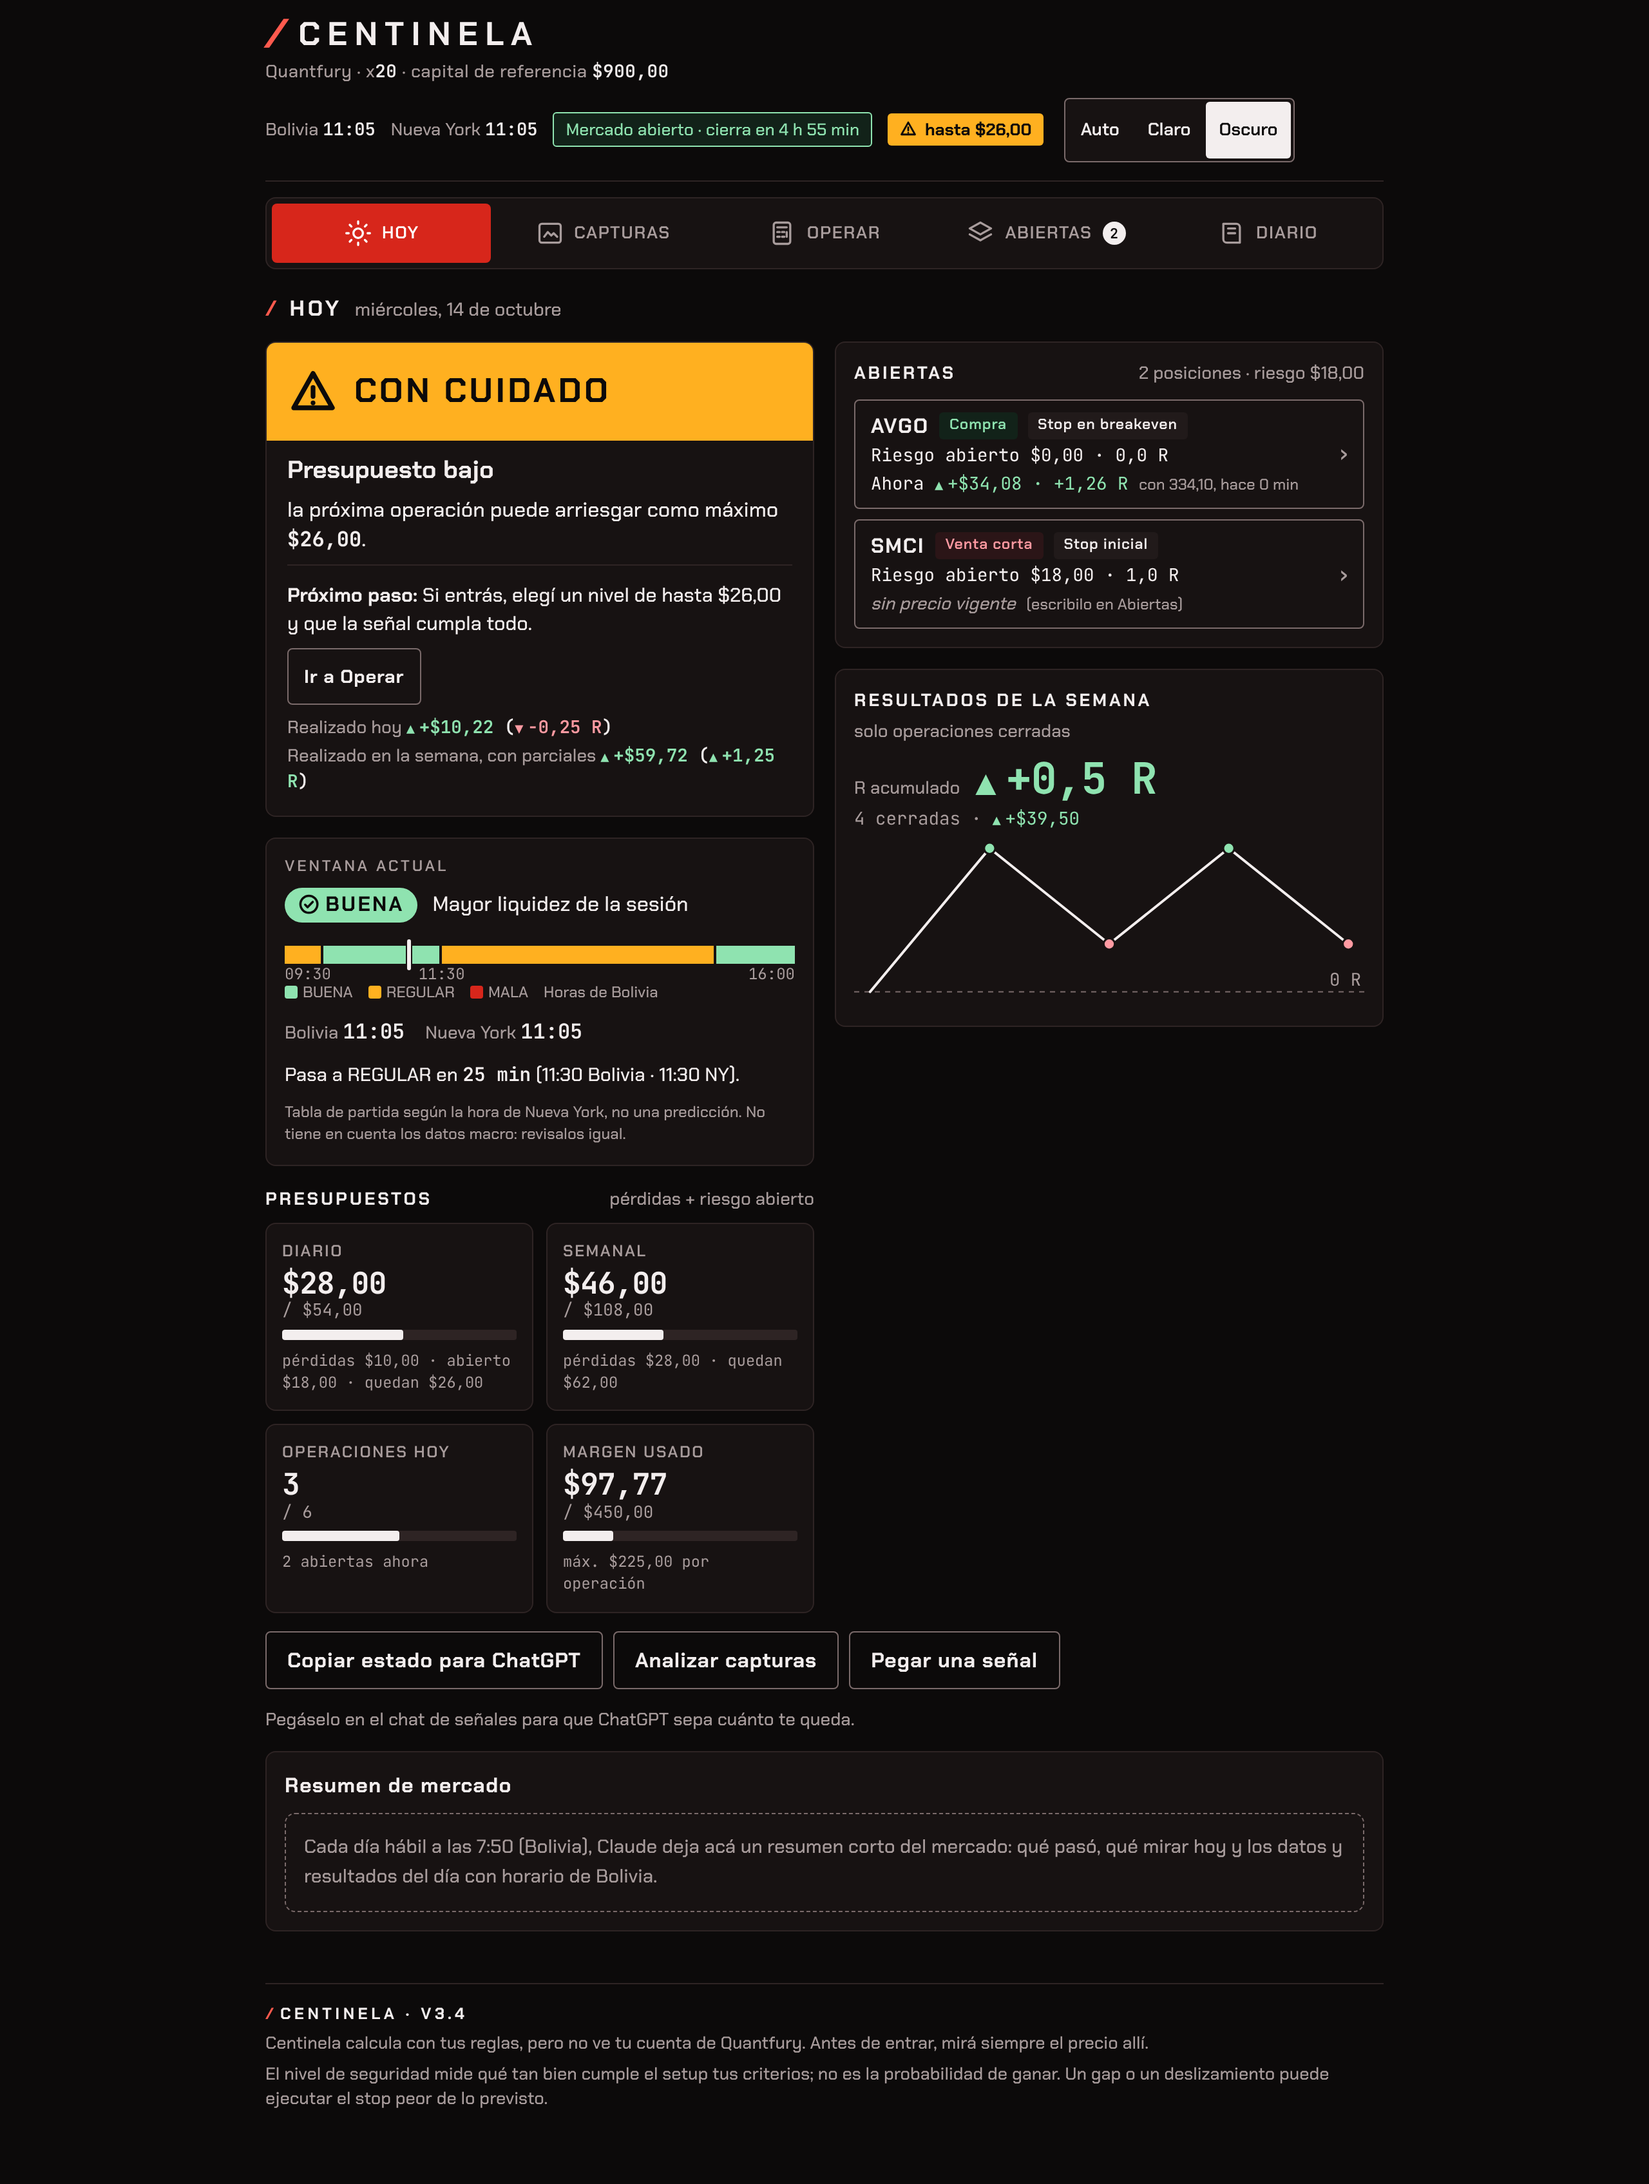
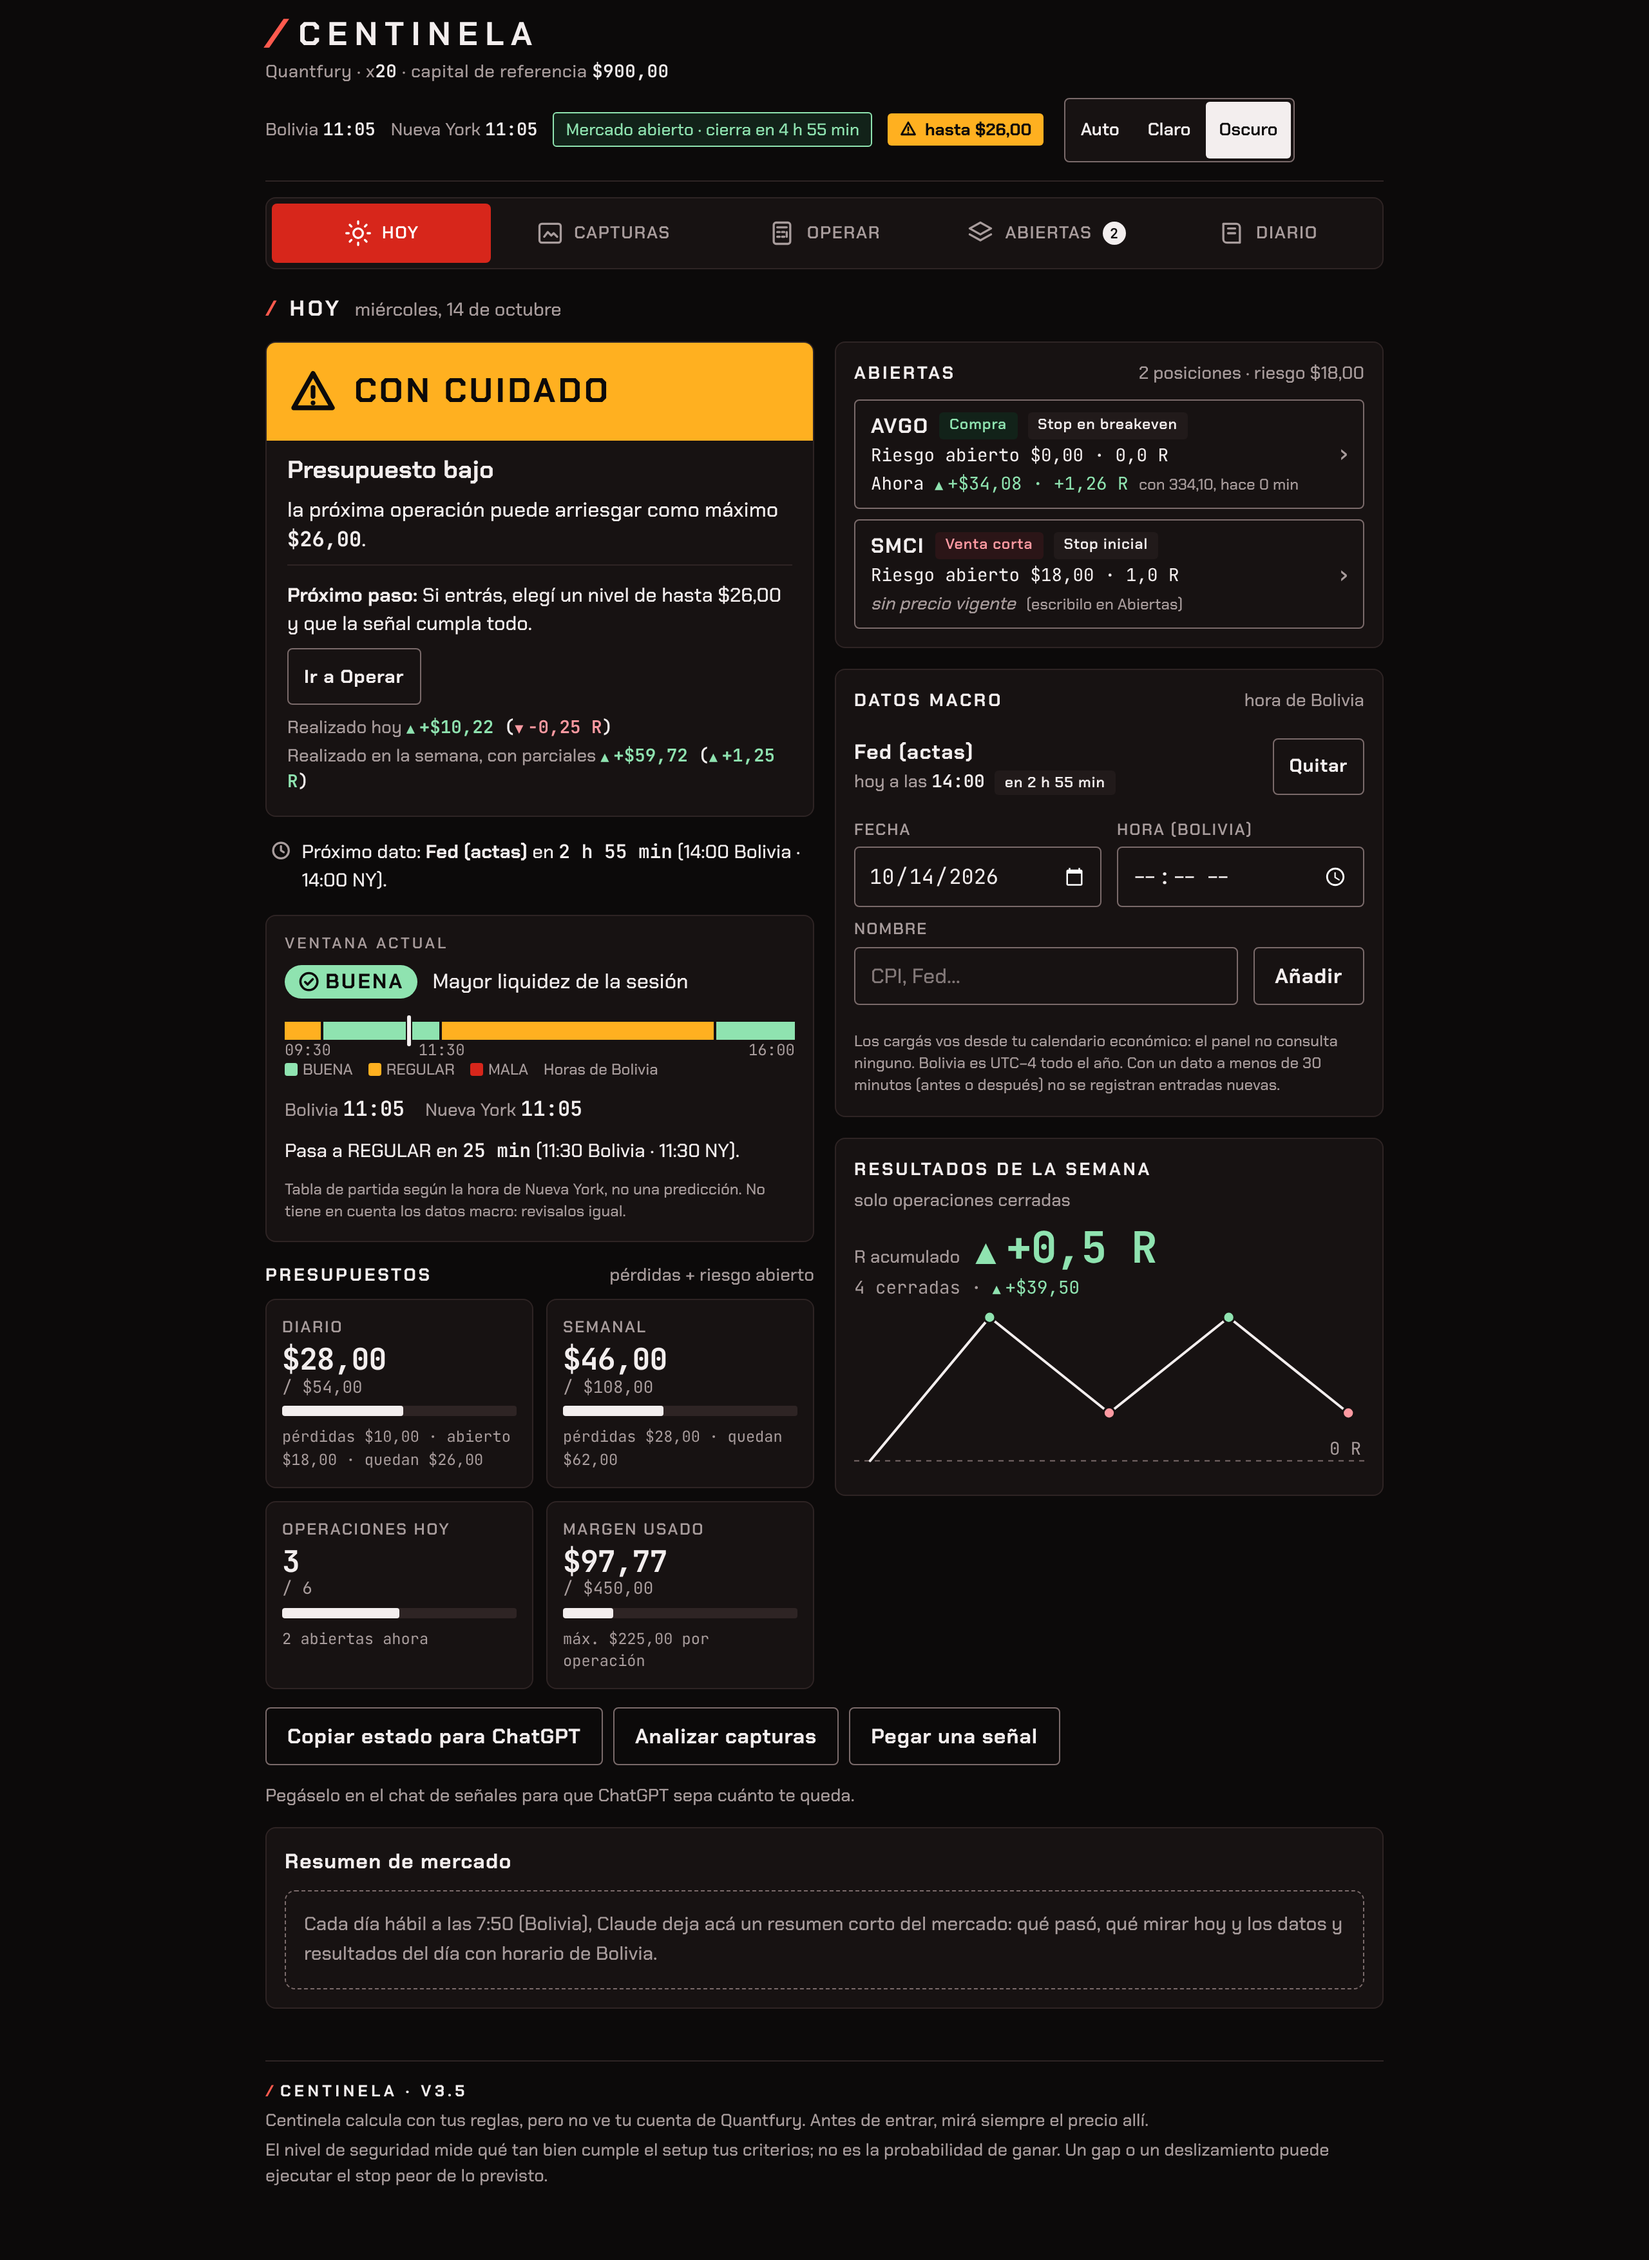
Capturas de las protecciones y CLAUDE.md v3.5
Capturas a 390 px en claro y oscuro: Hoy con dato macro cerca, con pausa
y con aviso de fin de semana, y Operar bloqueada. CLAUDE.md: versión 3.5,
712 pruebas, funciones puras nuevas, colección 'eventos' y la ejecución
automática de las pruebas en GitHub.

Claude-Session: https://claude.ai/code/session_01Wwmawe93y7QBRKR7pqczeL

diff --git a/capturas-revision.js b/capturas-revision.js
@@ -1,4 +1,5 @@
 // Capturas para revisión visual: las cinco pestañas en claro y oscuro a 390 px, Capturas en modo "Ya estoy dentro" con su bloque de acción, y Hoy a 1280 px.
+// Protecciones (v3.5), en claro y oscuro a 390 px: Hoy con un dato macro cerca, con pausa activa y con aviso de fin de semana, y Operar bloqueada.
 // Uso: node capturas-revision.js <carpeta> [archivo]. Guarda los PNG en <carpeta>/revision-visual/.
 // Usa el simulador de test-panel.js, un reloj fijo (miércoles 14-oct-2026, 11:05 en Nueva York) y datos inventados.
 const { chromium } = require('playwright');
@@ -9,7 +10,12 @@ const archivo = process.argv[3] || 'panel-trading.html';
 const html = fs.readFileSync(path.join(dir, archivo), 'utf8');
 const suite = fs.readFileSync(path.join(__dirname, 'test-panel.js'), 'utf8');
 const MOCK = suite.slice(suite.indexOf('const MOCK = `') + 'const MOCK = `'.length, suite.indexOf('})();`;') + '})();'.length);
-const { datosSemana, AHORA } = require('./datos-tablero.js');
+const { datosSemana, AHORA, NY } = require('./datos-tablero.js');
+const BO = (m, d, h, mi) => Date.UTC(2026, m - 1, d, h + 4, mi); // Bolivia: UTC−4 todo el año
+// Una pérdida chica cerrada hoy a las 10:50: con la de MU (10:15) son dos seguidas → pausa hasta las 11:20.
+const perdida = ['t-pausa', { activo: 'AMD', dir: 'compra', entrada: 160, entradaPlan: 160, sl1: 159, sl2: 160, tp1: 162, tp2: 164, nivel: 10, nivelEf: 10, d: 1, unidades: 8, unidadesAbiertas: 0, riesgoInicial: 8, stopActual: 159,
+  estado: 'cerrada', ts: BO(10, 14, 10, 30), parciales: [], movimientos: [], reglasRotas: [], nota: '', origen: 'Radar', tipo: 'limite', tipoActivo: 'Tecnología', seguridad: null,
+  cierre: { ts: BO(10, 14, 10, 50), precio: 159, unidades: 8, pnl: -8, motivo: 'SL1' }, pnl: -8, r: -1, plan: 'si' }];
 const skeleton = '<!doctype html><html><head><meta charset="utf-8"><meta name="viewport" content="width=device-width,initial-scale=1,viewport-fit=cover"><style>body{margin:0}[hidden]{display:none!important}</style></head><body>' + html + '</body></html>';
 const pagina = path.join(dir, 'test-capturas-page.html');
 fs.writeFileSync(pagina, skeleton);
@@ -19,15 +25,15 @@ fs.mkdirSync(salida, { recursive: true });
 (async () => {
   const browser = await chromium.launch();
   const errores = [];
-  const preparar = async (ancho) => {
+  const preparar = async (ancho, { hora = AHORA, trades = [], eventos = [['e-fed', { ts: BO(10, 14, 14, 0), nombre: 'Fed (actas)' }]] } = {}) => {
     const ctx = await browser.newContext({ viewport: { width: ancho, height: 860 }, deviceScaleFactor: 2 });
     await ctx.addInitScript(MOCK);
     const pg = await ctx.newPage();
     pg.on('pageerror', e => errores.push(e.message));
-    await pg.clock.install({ time: AHORA });
+    await pg.clock.install({ time: hora });
     await pg.goto('file://' + pagina);
     await pg.waitForFunction(() => document.getElementById('v-title').textContent !== 'Cargando tus operaciones…', null, { timeout: 15000 });
-    await pg.evaluate(async (docs) => { const db = await window.claude.use('db'); for (const [id, d] of docs) await db.collection('trades').doc(id).set(d); }, datosSemana());
+    await pg.evaluate(async ([docs, evs]) => { const db = await window.claude.use('db'); for (const [id, d] of docs) await db.collection('trades').doc(id).set(d); for (const [id, d] of evs) await db.collection('eventos').doc(id).set(d); }, [datosSemana().concat(trades), eventos]);
     await pg.waitForFunction(() => document.querySelectorAll('#tb-ab-lista .ab-fila').length === 2);
     await pg.waitForTimeout(500); // que el simulador termine de re-dibujar antes de escribir
     // Precio escrito en Abiertas para una de las dos posiciones (la otra queda sin precio vigente).
@@ -77,6 +83,25 @@ fs.mkdirSync(salida, { recursive: true });
     await completa(pg, 390, path.join(salida, '390-' + t + '-capturas-dentro.png'));
   }
   await ctx.close();
+  // Protecciones: Hoy con un dato macro cerca, con pausa y con aviso de fin de semana; Operar bloqueada por el dato macro.
+  const casos = [
+    ['hoy-macro', { eventos: [['e-cpi', { ts: BO(10, 14, 11, 20), nombre: 'CPI' }], ['e-fed', { ts: BO(10, 14, 14, 0), nombre: 'Fed (actas)' }]] }, 'hoy'],
+    ['hoy-pausa', { trades: [perdida] }, 'hoy'],
+    ['hoy-finde', { hora: NY(10, 16, 11, 5) }, 'hoy'],
+    ['operar-bloqueada', { eventos: [['e-cpi', { ts: BO(10, 14, 11, 20), nombre: 'CPI' }]] }, 'operar']
+  ];
+  for (const [nombre, opciones, tab] of casos) {
+    const c = await preparar(390, opciones);
+    if (tab === 'operar') {
+      await c.pg.click('#t-operar'); await c.pg.click('#btnEjemplo');
+      await c.pg.check('#chk-horario'); await c.pg.check('#chk-stop');
+    }
+    for (const t of ['claro', 'oscuro']) {
+      await tema(c.pg, t);
+      await completa(c.pg, 390, path.join(salida, '390-' + t + '-' + nombre + '.png'));
+    }
+    await c.ctx.close();
+  }
   const g = await preparar(1280);
   for (const t of ['claro', 'oscuro']) {
     await tema(g.pg, t);
